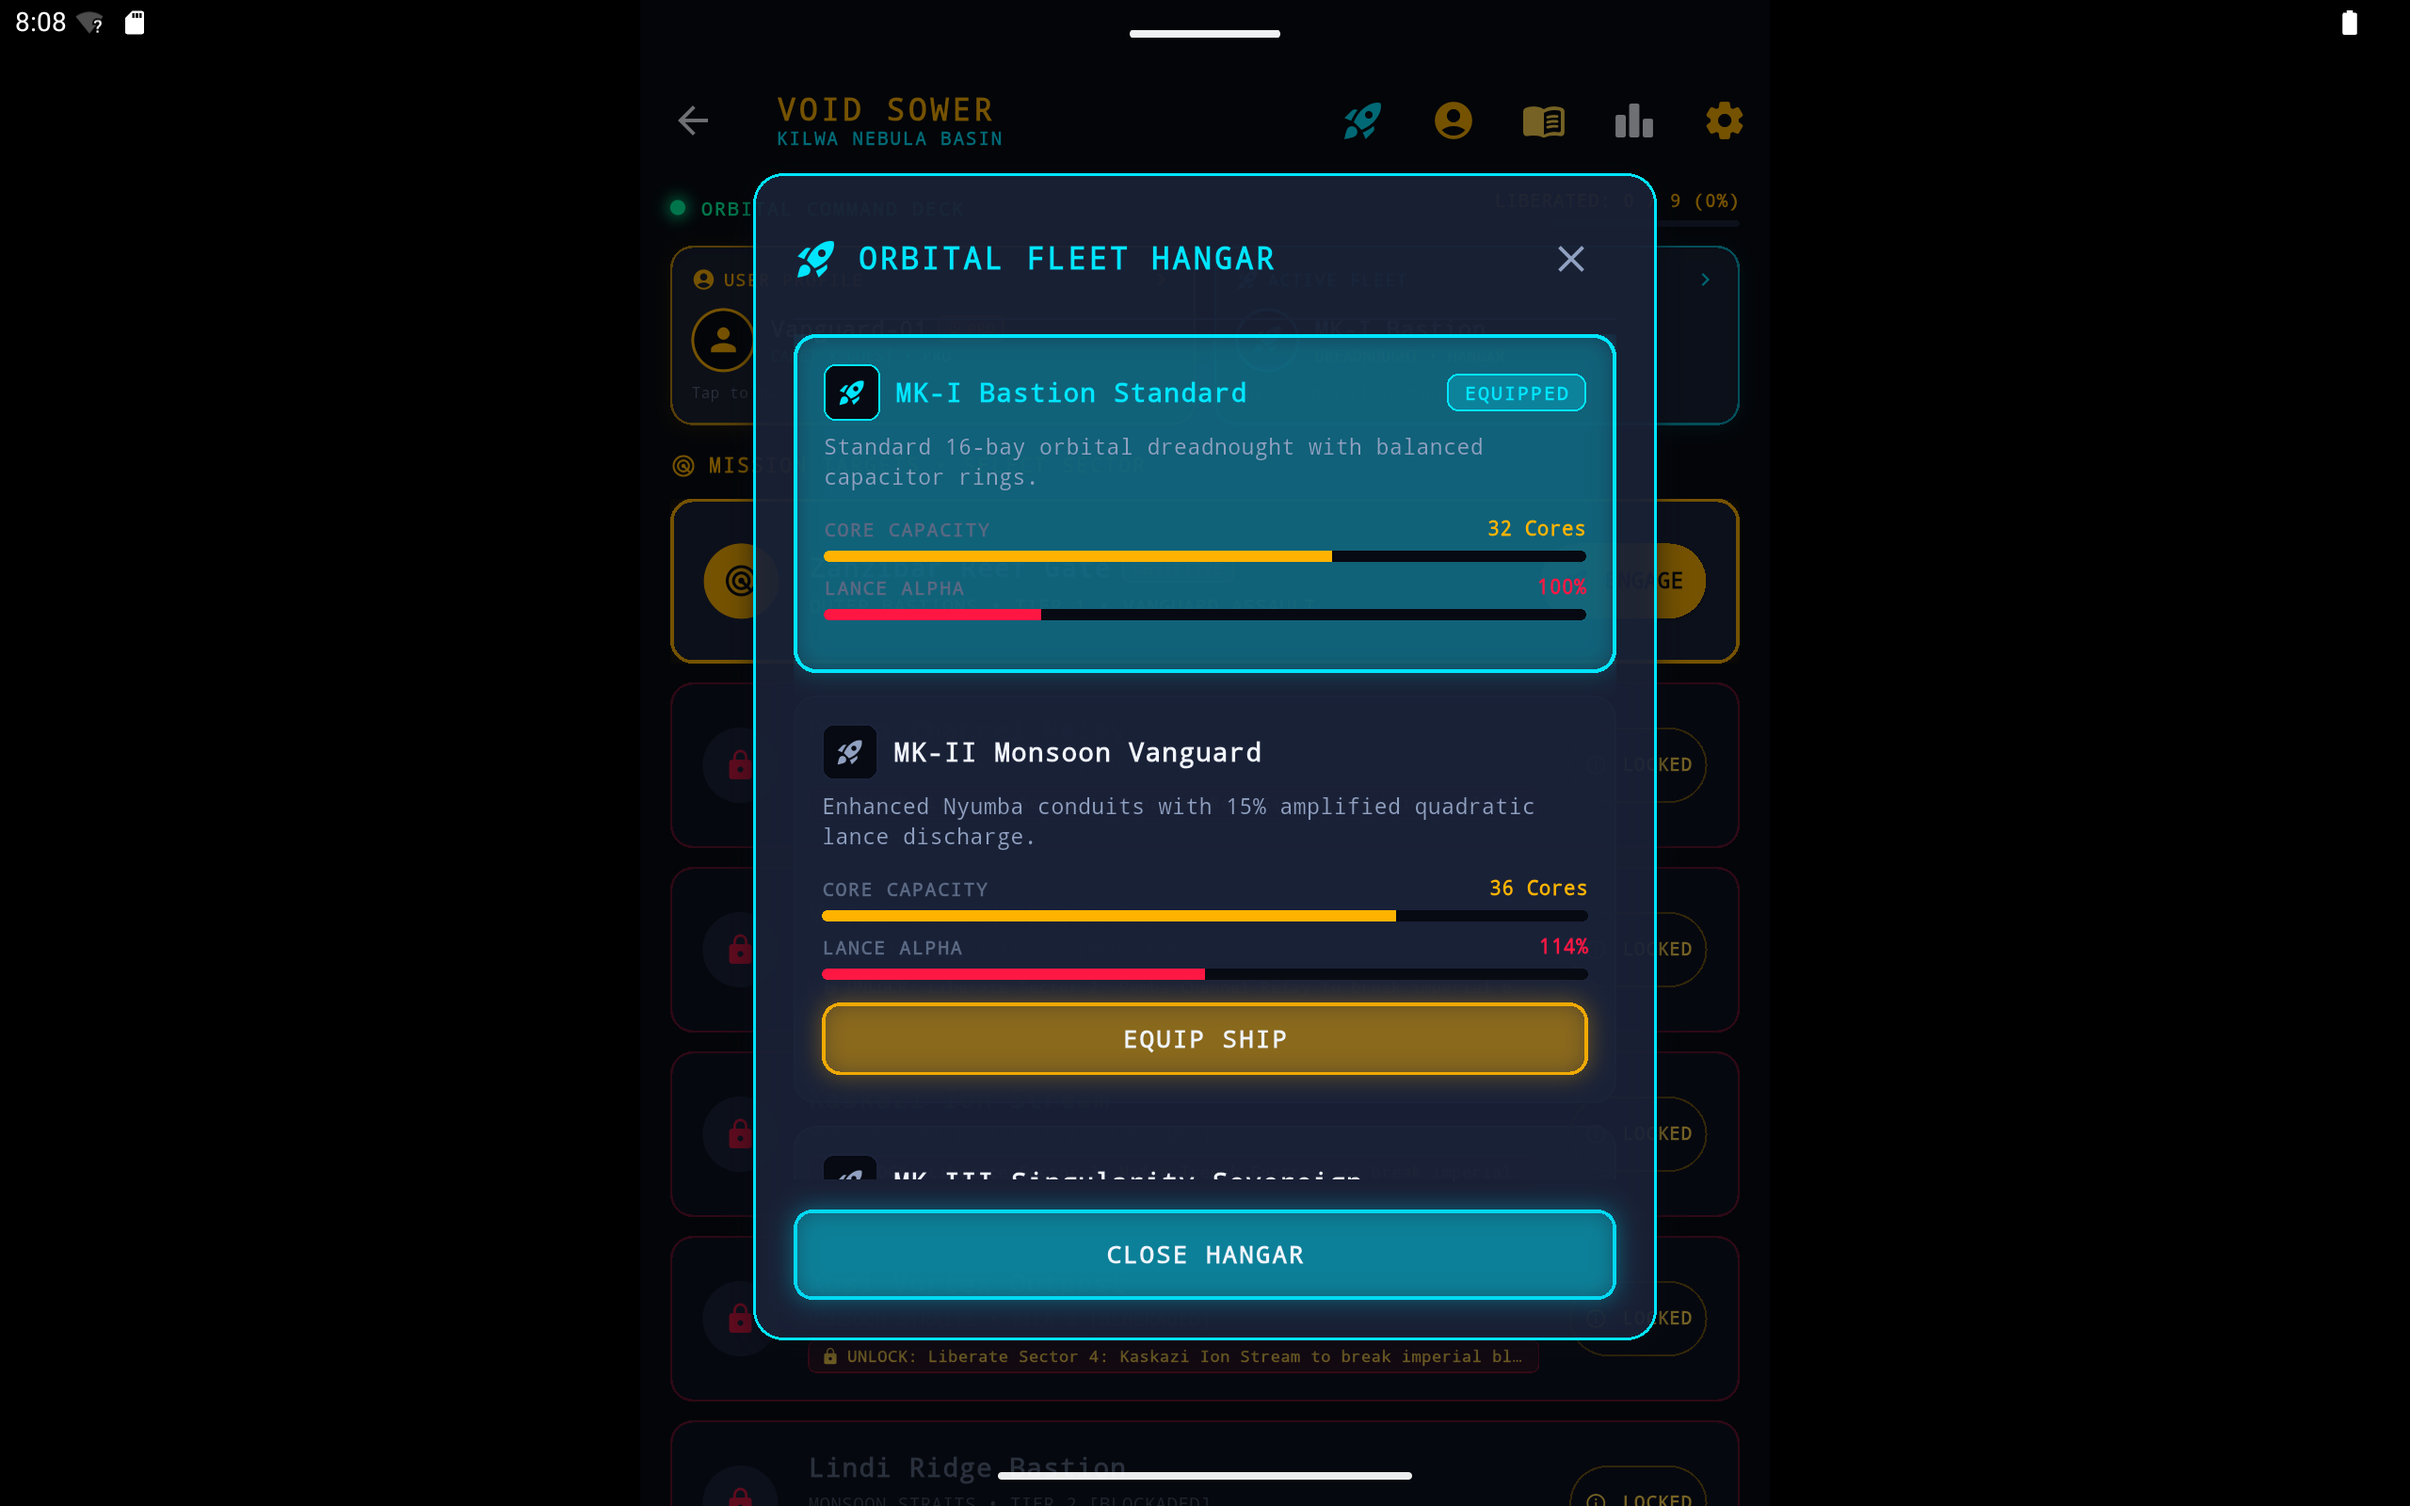
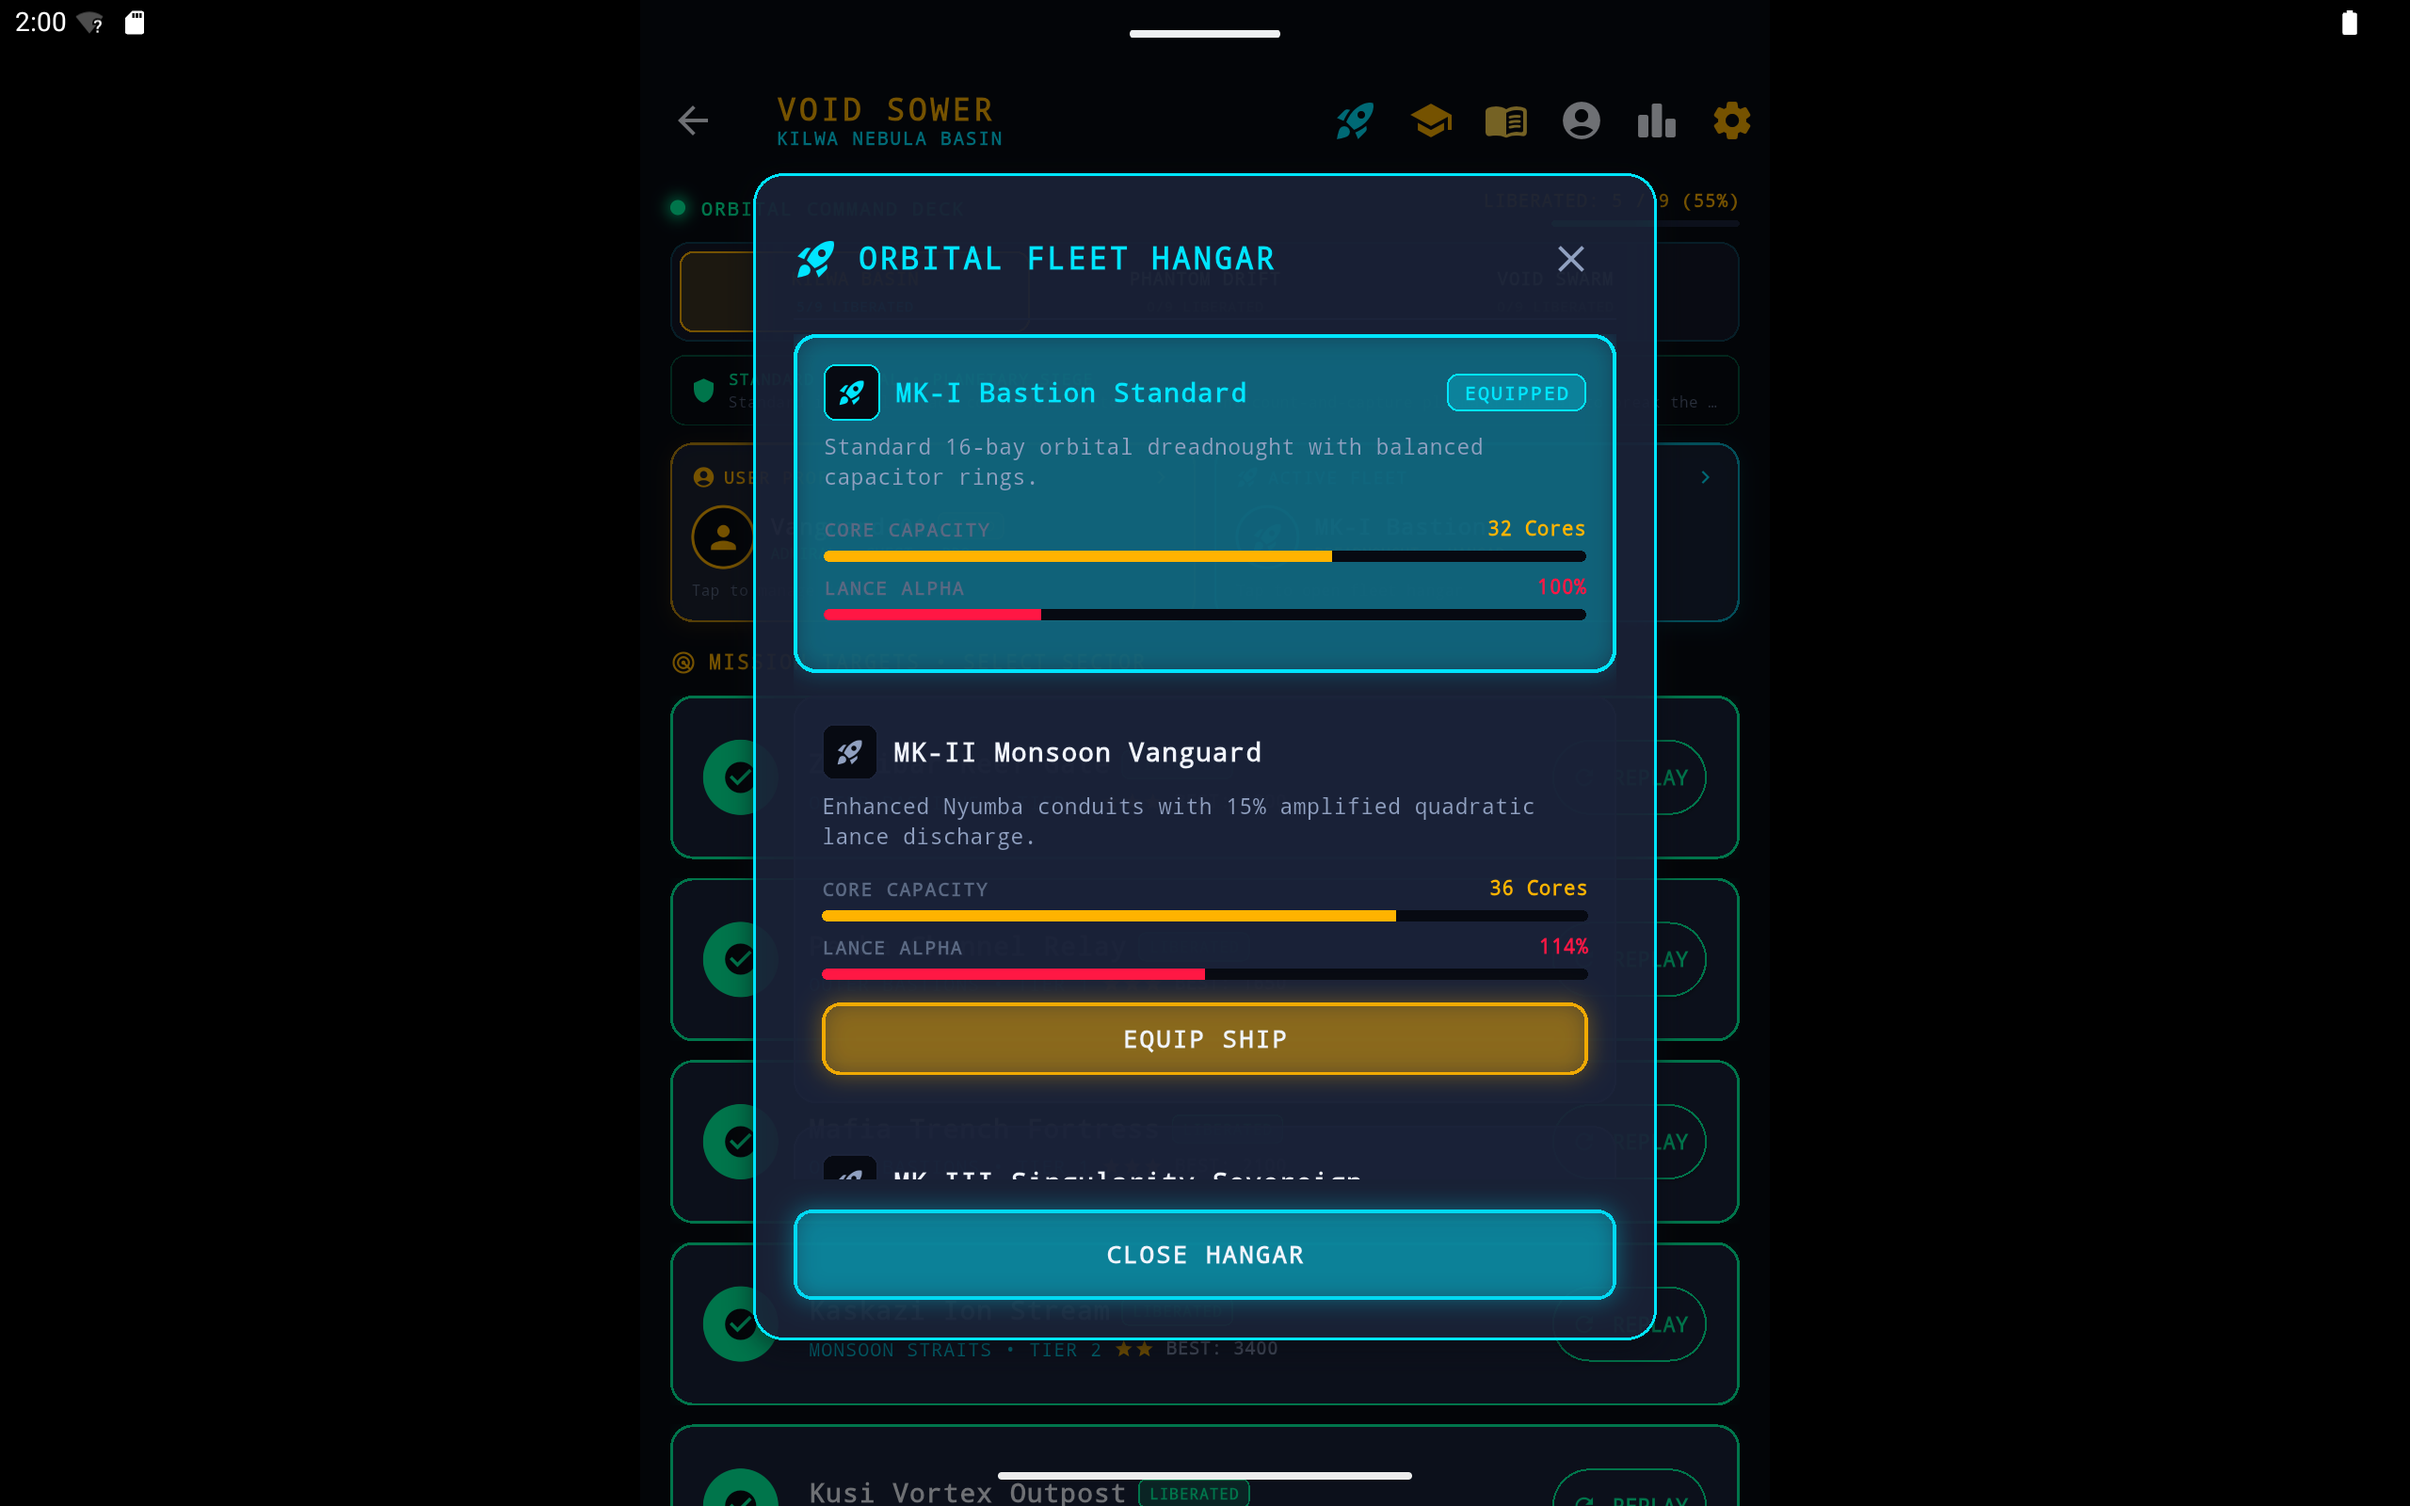
feat(assets): regenerate 2.0 phone and tablet Google Play Store screenshots

diff --git a/scripts/capture_phone_screenshots.py b/scripts/capture_phone_screenshots.py
@@ -99,6 +99,10 @@ def main():
   os.makedirs(SCREENSHOTS_DIR, exist_ok=True)
   os.makedirs(ASSETS_DIR, exist_ok=True)
 
+  # Dismiss any lingering system dialogs
+  keyevent(4)
+  time.sleep(0.5)
+
   # =========================================================================
   # Phase 1: Pro Unlocked Suite
   # =========================================================================
@@ -130,12 +134,12 @@ def main():
       os.path.join(ASSETS_DIR, "phone_01_tactical_combat_grid.png"),
   )
 
-  # Screenshot 07: Bao Orbital Codex (Tap PAUSE at x=889, y=350, then RULES at x=671, y=1740)
+  # Screenshot 07: Bao Orbital Codex (Tap PAUSE at x=1250, y=230, then RULES at x=672, y=1839)
   print("[Codex] Opening Tactical Pause menu...")
-  tap(889, 350)
+  tap(1250, 230)
   time.sleep(1.0)
-  print("[Codex] Opening Bao Codex dialog...")
-  tap(671, 1740)
+  print("[Codex] Opening Bao Codex dialog (tap RULES at x=672, y=1839)...")
+  tap(672, 1839)
   time.sleep(1.2)
   capture("07_bao_orbital_codex.png")
   shutil.copyfile(
@@ -146,20 +150,20 @@ def main():
   keyevent(4)
   time.sleep(0.8)
 
-  # Navigate to Star Map: Tap PAUSE at x=889, y=350, then MAP at x=313, y=1740
+  # Navigate to Star Map: Tap PAUSE at x=1250, y=230, then MAP at x=325, y=1839
   print("[Map] Opening Tactical Pause to navigate to Star Map...")
-  tap(889, 350)
+  tap(1250, 230)
   time.sleep(1.0)
-  tap(313, 1740)
+  tap(325, 1839)
   time.sleep(2.0)
 
   # Screenshot 05: Multi-Theater Campaign Map (Kilwa Basin, Phantom Drift, Void Swarm)
   print("[Map] Capturing 05_kilwa_basin_campaign_map.png...")
   capture("05_kilwa_basin_campaign_map.png")
 
-  # Screenshot 04: Orbital Fleet Hangar (Tap Rocket icon at x=683, y=240 in Map AppBar)
+  # Screenshot 04: Orbital Fleet Hangar (Tap Rocket icon at x=685, y=240 in Map AppBar)
   print("[Hangar] Opening Fleet Hangar dialog...")
-  tap(683, 240)
+  tap(685, 240)
   time.sleep(1.2)
   capture("04_orbital_fleet_hangar.png")
   shutil.copyfile(
@@ -169,9 +173,9 @@ def main():
   keyevent(4)
   time.sleep(0.8)
 
-  # Screenshot 08: Pilot Telemetry Dashboard (Tap Leaderboard icon at x=1163, y=240 in Map AppBar)
+  # Screenshot 08: Pilot Telemetry Dashboard (Tap Leaderboard icon at x=1165, y=240 in Map AppBar)
   print("[Telemetry] Opening Combat Telemetry dashboard...")
-  tap(1163, 240)
+  tap(1165, 240)
   time.sleep(1.5)
   capture("08_pilot_telemetry_dashboard.png")
   shutil.copyfile(
@@ -208,40 +212,43 @@ def main():
 
   # Return to Map and launch Sector 1 for clean AI victory sequence
   print("[Victory] Returning to Star Map to launch Kilwa Basin S1...")
-  tap(889, 350)  # Pause
+  tap(1250, 230)  # Pause
   time.sleep(1.0)
-  tap(313, 1740) # Map
+  tap(325, 1839)  # Map
   time.sleep(1.5)
-  tap(250, 500)  # Kilwa Basin tab
+  tap(250, 500)   # Kilwa Basin tab
   time.sleep(0.8)
-  tap(830, 1265) # Sector 1 REPLAY / ENGAGE
+  tap(830, 1265)  # Sector 1 REPLAY / ENGAGE
   time.sleep(0.8)
-  tap(675, 2850) # Launch battle
+  tap(675, 2850)  # Launch battle
   time.sleep(1.8)
 
-  # Activate AI Solver in right HUD (x=1015, y=240) to eliminate invaders and achieve Victory
+  # Activate AI Solver via Tactical Pause Menu to eliminate invaders and achieve Victory
   print("[Solver] Activating AI Tactical Solver to clear sector...")
-  tap(1015, 240)
+  tap(1250, 230)
+  time.sleep(0.8)
+  tap(672, 1680)  # Toggle AI Solver
+  time.sleep(0.5)
+  tap(311, 1508)  # Resume
+  time.sleep(1.0)
 
   # Poll for victory modal
   print("[Victory] Waiting for Sector Liberation modal...")
   modal_captured = False
-  for attempt in range(40):
-    time.sleep(0.5)
+  for attempt in range(60):
+    time.sleep(0.25)
     dest_path = os.path.join(SCREENSHOTS_DIR, "06_sector_liberation_victory.png")
     with open(dest_path, "wb") as f:
       subprocess.run(["adb", "-s", DEVICE, "exec-out", "screencap", "-p"], stdout=f)
-    if attempt < 4:
-      continue
     try:
       im = Image.open(dest_path)
       arr = np.array(im)
-      # Check for gold military crest in center: y: 800..1200, x: 550..800
-      crop = arr[800:1200, 550:800]
+      # Check for gold military crest in center: y: 750..1300, x: 500..850
+      crop = arr[750:1300, 500:850]
       gold_pts = np.where(
-          (crop[:, :, 0] > 220) & (crop[:, :, 1] > 160) & (crop[:, :, 2] < 50)
+          (crop[:, :, 0] > 200) & (crop[:, :, 1] > 140) & (crop[:, :, 2] < 60)
       )
-      if len(gold_pts[0]) > 400:
+      if len(gold_pts[0]) > 250:
         print(f"[Victory] Captured 06_sector_liberation_victory.png (attempt {attempt + 1})!")
         modal_captured = True
         break
@@ -264,10 +271,10 @@ def main():
   adb_cmd(["shell", "am", "start", "-n", "com.voidsower.app/.MainActivity"])
   time.sleep(3.5)
 
-  # Tap PAUSE at x=889, y=350, then MAP at x=313, y=1740
-  tap(889, 350)
+  # Tap PAUSE at x=1250, y=230, then MAP at x=325, y=1839
+  tap(1250, 230)
   time.sleep(1.0)
-  tap(313, 1740)
+  tap(325, 1839)
   time.sleep(2.0)
 
   # In Free Tier, the Pro upgrade icon in AppBar is at x=1283, y=240

diff --git a/scripts/capture_tablet_screenshots.py b/scripts/capture_tablet_screenshots.py
@@ -64,21 +64,45 @@ def main():
   device = get_device()
   print(f"[Init] Targeting device: {device}")
 
+  keyevent(4, device)
+  time.sleep(0.5)
+
   adb_cmd(["shell", "settings", "put", "secure", "immersive_mode_confirmations", "confirmed"], device)
 
-  # 1. Reset state: force-stop app, clear data, and seed persistent Pro unlock
+  # 1. Reset state: force-stop app, clear data, and seed persistent Pro unlock with rich profile
   print("[Init] Resetting app state & seeding Pro entitlement...")
   adb_cmd(["shell", "am", "force-stop", "com.voidsower.app"], device)
   time.sleep(0.5)
   adb_cmd(["shell", "pm", "clear", "com.voidsower.app"], device)
   time.sleep(1.0)
 
+  profile_json = (
+      '{"id":"pilot_default","callsign":"Vanguard-01","insignia":"shonaStar",'
+      '"lifetimeScore":34820,"enemiesDestroyed":142,"lancesFired":86,"maxCascadeLaps":4,'
+      '"missionsPlayed":28,"victories":22,"defeats":6,"flawlessVictories":14,"totalSeedsSown":340,'
+      '"flakBurstsTriggered":24,"totalCoresSaved":184,"currentStreak":5,"longestStreak":12,'
+      '"lastPlayedDate":"2026-09-19","totalFlightTimeSeconds":4820,'
+      '"chassisSorties":{"mk1_bastion":16,"mk2_monsoon":12},'
+      '"campaignSorties":{"kilwa_basin":18,"phantom_drift":10},'
+      '"unlockedAchievements":["first_sortie","flawless_defense","cascade_master","iron_hull"],'
+      '"isGoogleLinked":false}'
+  )
+  escaped_profile = profile_json.replace('"', '&quot;')
+
   pref_xml = (
       '<?xml version="1.0" encoding="utf-8" standalone="yes" ?>\n'
       '<map>\n'
       '    <boolean name="flutter.void_sower_pro_unlocked" value="true" />\n'
       '    <boolean name="flutter.void_sower_completed_tutorial" value="false" />\n'
-      '    <int name="flutter.void_sower_high_score" value="12480" />\n'
+      '    <int name="flutter.void_sower_high_score" value="34820" />\n'
+      '    <int name="flutter.void_sower_liberated_sectors" value="6" />\n'
+      '    <int name="flutter.void_sower_sector_stars_1" value="3" />\n'
+      '    <int name="flutter.void_sower_sector_stars_2" value="3" />\n'
+      '    <int name="flutter.void_sower_sector_stars_3" value="3" />\n'
+      '    <int name="flutter.void_sower_sector_stars_4" value="2" />\n'
+      '    <int name="flutter.void_sower_sector_stars_5" value="2" />\n'
+      f'    <string name="flutter.void_sower_user_profile">{escaped_profile}</string>\n'
+      '    <string name="flutter.void_sower_active_profile_id">pilot_default</string>\n'
       '</map>\n'
   )
   with open("/tmp/prefs.xml", "w") as f:
@@ -123,18 +147,18 @@ def main():
   capture("01_tablet_tactical_combat.png", device)
 
   # 3. Screenshot 02: Sowing Trajectory & Axial Lance
-  print("[Tablet Combat] Discharging Axial Particle Lance (tap x=1280, y=1435)...")
-  tap(1280, 1435, device)
+  print("[Tablet Combat] Discharging Axial Particle Lance (tap x=1280, y=1484)...")
+  tap(1280, 1484, device)
   time.sleep(0.20)
   capture("02_tablet_sowing_trajectory.png", device)
   time.sleep(1.0)
 
-  # 4. Screenshot 06: Bao Codex on Tablet (Tap PAUSE at x=1768, y=190, then RULES at x=1270, y=995)
+  # 4. Screenshot 06: Bao Codex on Tablet (Tap PAUSE at x=1788, y=128, then RULES at x=1280, y=989)
   print("[Tablet Codex] Opening Tactical Pause menu...")
-  tap(1768, 190, device)
+  tap(1788, 128, device)
   time.sleep(1.0)
-  print("[Tablet Codex] Opening Bao Codex dialog (tap RULES at x=1270, y=995)...")
-  tap(1270, 995, device)
+  print("[Tablet Codex] Opening Bao Codex dialog (tap RULES at x=1280, y=989)...")
+  tap(1280, 989, device)
   time.sleep(1.8)
   capture("06_tablet_bao_codex.png", device)
   # Close Bao Codex dialog via Back keyevent (returns directly to CombatScreen)
@@ -142,21 +166,21 @@ def main():
   keyevent(4, device)
   time.sleep(1.0)
 
-  # 5. Navigate to Star Map: Tap PAUSE at x=1768, y=190, then MAP at x=1015, y=995
+  # 5. Navigate to Star Map: Tap PAUSE at x=1788, y=128, then MAP at x=1058, y=989
   print("[Tablet Map] Opening Tactical Pause to navigate to Star Map...")
-  tap(1768, 190, device)
+  tap(1788, 128, device)
   time.sleep(1.0)
-  print("[Tablet Map] Tapping MAP button at x=1015, y=995...")
-  tap(1015, 995, device)
+  print("[Tablet Map] Tapping MAP button at x=1058, y=989...")
+  tap(1058, 989, device)
   time.sleep(2.5)
 
   # Screenshot 03: Tablet Campaign Map
   print("[Tablet Map] Capturing 03_tablet_campaign_map.png...")
   capture("03_tablet_campaign_map.png", device)
 
-  # 6. Screenshot 04: Tablet Fleet Hangar (tap Rocket icon at x=1462, y=109 in Map AppBar)
-  print("[Tablet Hangar] Opening Fleet Hangar (tap Rocket at x=1462, y=109)...")
-  tap(1462, 109, device)
+  # 6. Screenshot 04: Tablet Fleet Hangar (tap Rocket icon at x=1440, y=109 in Map AppBar)
+  print("[Tablet Hangar] Opening Fleet Hangar (tap Rocket at x=1440, y=109)...")
+  tap(1440, 109, device)
   time.sleep(1.8)
   capture("04_tablet_fleet_hangar.png", device)
   keyevent(4, device)
